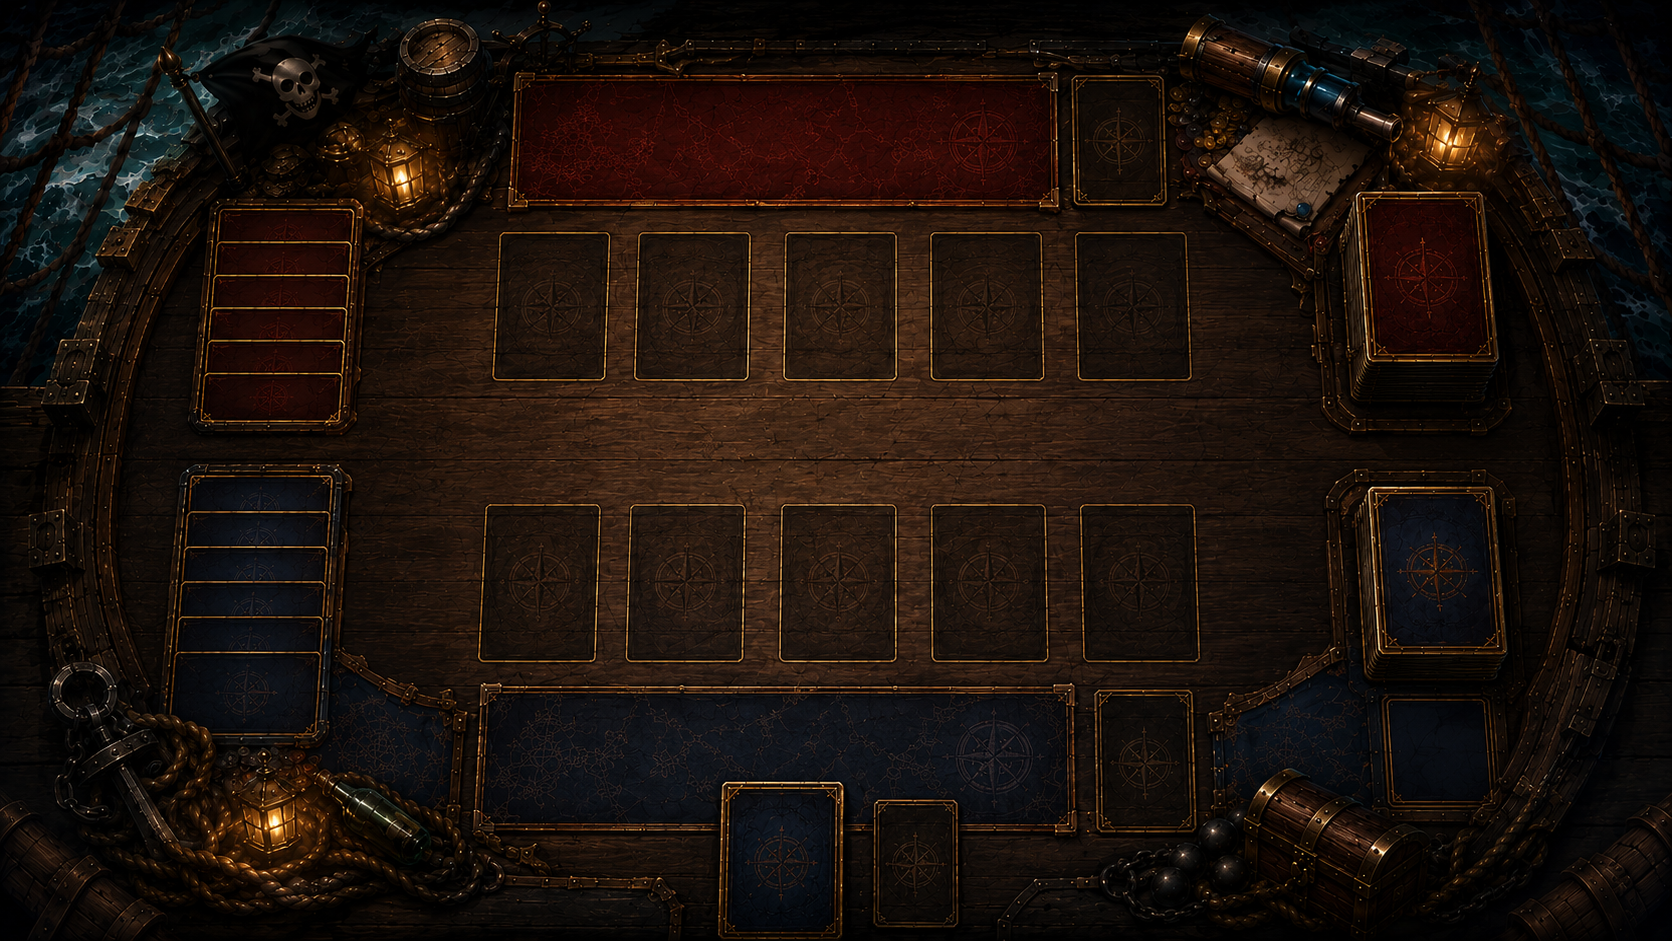
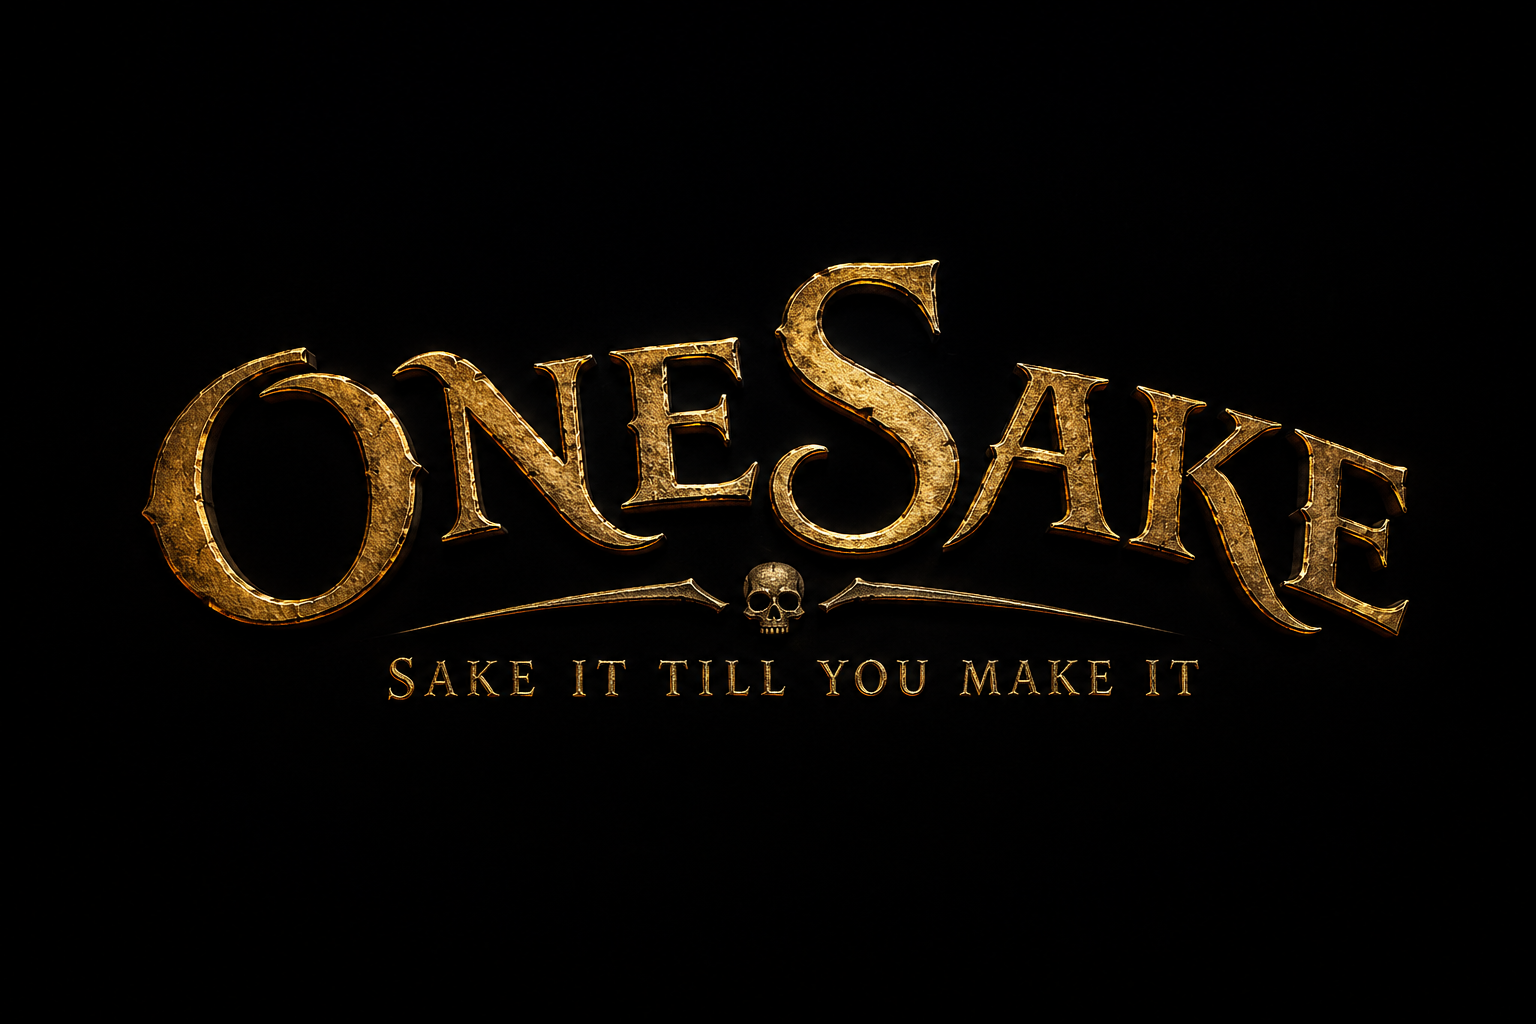
feat: update start screen artwork

diff --git a/frontend/web/src/index.css b/frontend/web/src/index.css
@@ -64,42 +64,47 @@ button:focus-visible {
 }
 
 .start-screen {
+  position: relative;
   display: grid;
-  grid-template-rows: minmax(0, 1fr) auto;
-  place-items: center;
-  gap: clamp(12px, 2.4vh, 24px);
+  place-items: end center;
   width: 100%;
   min-height: 100vh;
   min-height: 100svh;
-  padding: clamp(10px, 2vw, 24px);
-  padding-bottom: calc(clamp(16px, 3vh, 34px) + env(safe-area-inset-bottom));
+  padding: clamp(18px, 3vw, 34px);
+  padding-bottom: calc(clamp(24px, 6vh, 58px) + env(safe-area-inset-bottom));
   overflow: hidden;
-  background:
-    radial-gradient(circle at 50% 58%, rgb(142 83 26 / 24%), transparent 28%),
-    radial-gradient(circle at 16% 12%, rgb(24 92 103 / 24%), transparent 26%),
-    linear-gradient(180deg, #020509 0%, #07111a 48%, #030609 100%);
+  background: #000000;
 }
 
 .start-screen__art-wrap {
+  position: absolute;
+  inset: 0;
+  z-index: 0;
   display: grid;
-  width: min(100%, 1760px);
-  min-height: 0;
   place-items: center;
+  overflow: hidden;
+}
+
+.start-screen__art-wrap::after {
+  position: absolute;
+  inset: 0;
+  content: "";
+  background: linear-gradient(180deg, transparent 62%, rgb(0 0 0 / 58%) 100%);
+  pointer-events: none;
 }
 
 .start-screen__art {
   display: block;
   width: 100%;
-  max-width: 100%;
-  max-height: calc(100svh - 128px);
+  height: 100%;
   object-fit: contain;
-  filter:
-    drop-shadow(0 24px 36px rgb(0 0 0 / 58%))
-    drop-shadow(0 0 22px rgb(224 158 55 / 12%));
+  object-position: center;
   user-select: none;
 }
 
 .start-play-button {
+  position: relative;
+  z-index: 1;
   min-width: clamp(164px, 22vw, 264px);
   min-height: clamp(54px, 7vh, 72px);
   border: 2px solid #d9ad51;